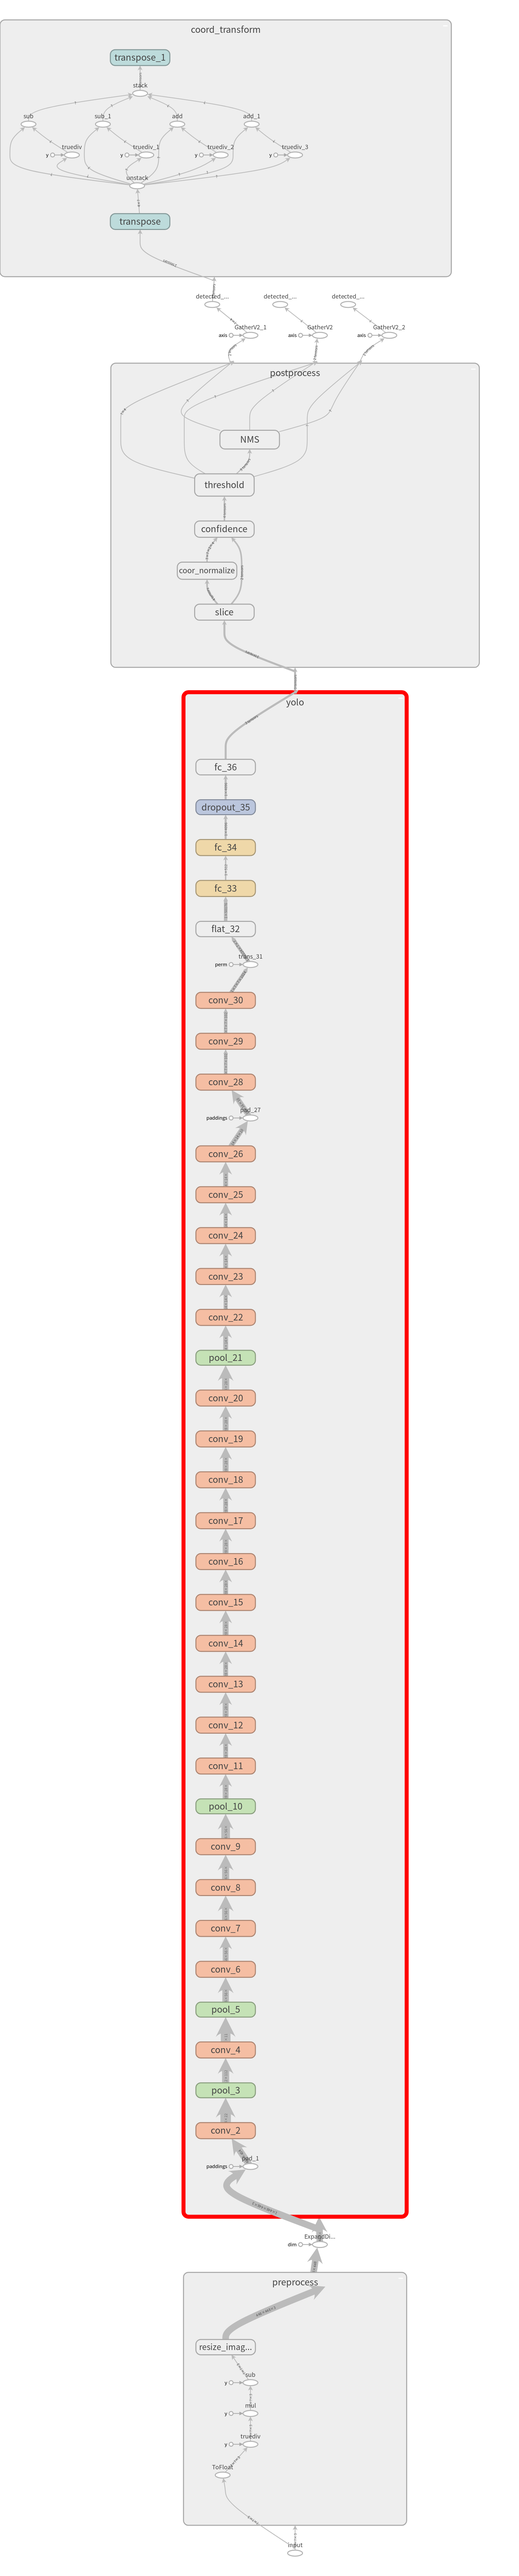
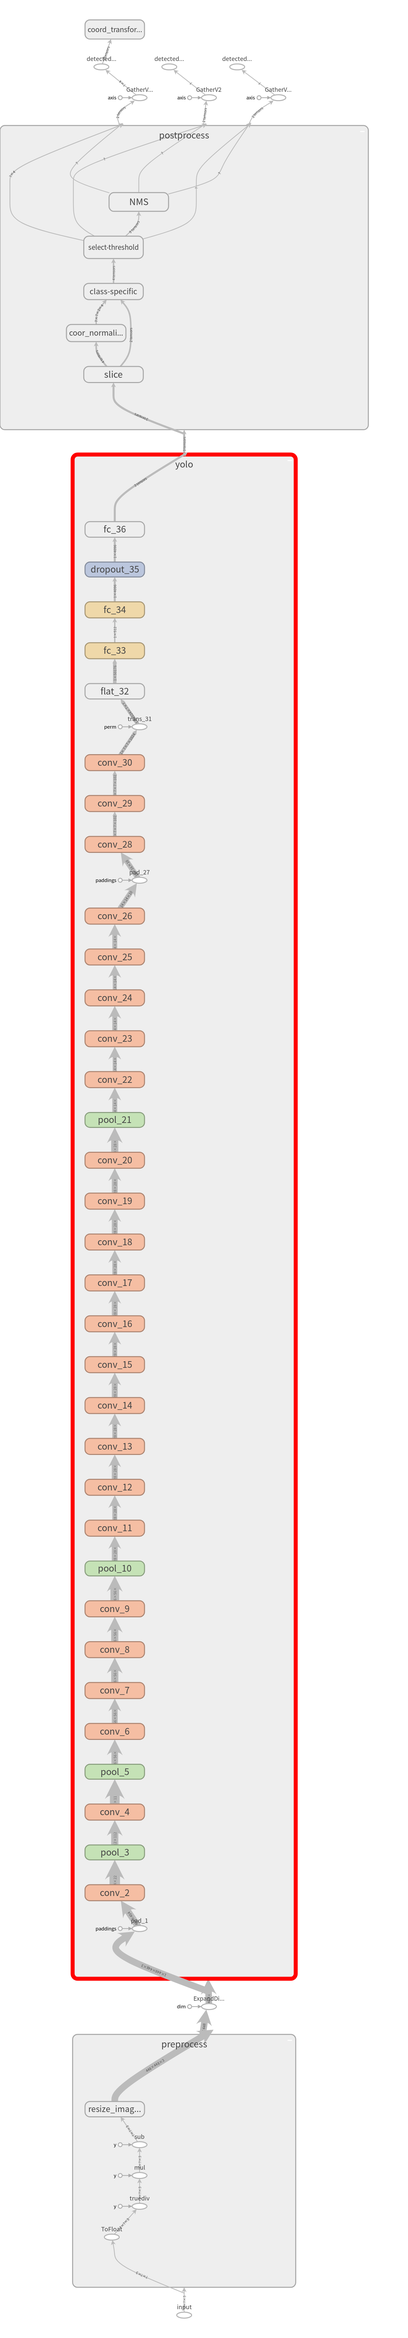
fix_some_error_and_update_graph_for_yolov1

diff --git a/YOLO_V1/YOLOv1-Tensorflow-detect-export/YOLO_V1_Inference.py b/YOLO_V1/YOLOv1-Tensorflow-detect-export/YOLO_V1_Inference.py
@@ -213,11 +213,9 @@ class Yolo(object):
 	def _build_detector(self):
 		with tf.variable_scope("postprocess"):
 			# 原始图片的宽和高
-# 			self.width = tf.placeholder(tf.float32,name='img_w')
-# 			self.height = tf.placeholder(tf.float32,name='img_h')
-			_, h, w, _ = tf.unstack(tf.shape(self.images))
-			height = tf.to_float(h)#input image height of the network 448
-			width = tf.to_float(w)#input image width of the network 448
+			#_, h, w, _ = tf.unstack(tf.shape(self.images))
+			#height = tf.to_float(h)#input image height of the network 448
+			#width = tf.to_float(w)#input image width of the network 448
 			with tf.variable_scope("slice"):
 				# 网络回归[batch,7*7*30]：
 				idx1 = self.S*self.S*self.C
@@ -229,16 +227,17 @@ class Yolo(object):
 				# 3.边界框[:,7*7*(20+2):]  8维 -> (x,y,w,h)
 				boxes = tf.reshape(self.predicts[0,idx2:],[self.S,self.S,self.B,4])
 		
-			with tf.variable_scope("coor_normalize"):
+			with tf.variable_scope("coord_decode"):
 				# x，y预测的是相对 grid cell 左上角的坐标offset,So将x，y转换为相对于图像左上角的坐标
 				#boxes[:, :, :, 0],boxes[:, :, :, 1],the bounding box x and y coordinates to be offsets of a particular grid cell location
 				# w，h的预测是宽度和高度的平方根,So平方乘以图像的宽度和高度,the bounding box width and height by the image width and height
+				#normallize the box coordinates to  0-1 of the whole image
 				boxes = tf.stack([(boxes[:, :, :, 0] + tf.constant(self.x_offset, dtype=tf.float32)) / self.S ,#self.width,
 						  (boxes[:, :, :, 1] + tf.constant(self.y_offset, dtype=tf.float32)) / self.S ,#self.height,
 						  tf.square(boxes[:, :, :, 2]),#self.width,
 						  tf.square(boxes[:, :, :, 3])], axis=3)#self.height], axis=3)
 		
-		        with tf.variable_scope("confidence"):
+			with tf.variable_scope("class-specific"):
 				# 类别置信度分数：[S,S,B,1]*[S,S,1,C]=[S,S,B,类别置信度C]
 				scores = tf.expand_dims(confs, -1) * tf.expand_dims(class_probs, 2)
 		
@@ -247,26 +246,29 @@ class Yolo(object):
 		
 				# 只选择类别置信度最大的值作为box的类别、分数
 				box_classes = tf.argmax(scores, axis=1) # 边界框box的类别
-			        box_class_scores = tf.reduce_max(scores, axis=1) # 边界框box的分数
+				box_class_scores = tf.reduce_max(scores, axis=1) # 边界框box的分数
 		
-		        with tf.variable_scope("threshold"):
+			with tf.variable_scope("select-threshold"):
 				# 利用类别置信度阈值self.threshold，过滤掉类别置信度低的
-			        filter_mask = box_class_scores >= self.threshold
-		        	scores = tf.boolean_mask(box_class_scores, filter_mask)
-		        	boxes = tf.boolean_mask(boxes, filter_mask)
-		        	box_classes = tf.boolean_mask(box_classes, filter_mask)
+				filter_mask = box_class_scores >= self.threshold
+				scores = tf.boolean_mask(box_class_scores, filter_mask)
+				boxes = tf.boolean_mask(boxes, filter_mask)
+				box_classes = tf.boolean_mask(box_classes, filter_mask)
 		
-		        with tf.variable_scope("NMS"):
+			with tf.variable_scope("NMS"):
 				# NMS (不区分不同的类别)
-				# 中心坐标+宽高box (x, y, w, h) -> xmin=x-w/2 -> 左上+右下box (xmin, ymin, xmax, ymax)，因为NMS函数是这种计算方式
-		        	_boxes = tf.stack([boxes[:, 0] - 0.5 * boxes[:, 2], boxes[:, 1] - 0.5 * boxes[:, 3],
-								   boxes[:, 0] + 0.5 * boxes[:, 2], boxes[:, 1] + 0.5 * boxes[:, 3]], axis=1)
-		        	nms_indices = tf.image.non_max_suppression(_boxes, scores,
-										self.max_output_size, self.iou_threshold)
+				# 中心坐标+宽高box (x, y, w, h) -> xmin=x-w/2 -> 左上+右下box (ymin, xmin, ymax, xmax)，因为NMS函数是这种计算方式
+				_boxes = tf.stack([boxes[:, 1] - 0.5 * boxes[:, 2], boxes[:, 0] - 0.5 * boxes[:, 3],
+								       boxes[:, 1] + 0.5 * boxes[:, 2], boxes[:, 0] + 0.5 * boxes[:, 3]], axis=1)
+				#Bounding boxes are supplied as [y1, x1, y2, x2], where (y1, x1) and (y2, x2) are the coordinates of any diagonal pair of box corners 
+				#and the coordinates can be provided as normalized ,ymin, xmin, ymax, xmax
+				nms_indices = tf.image.non_max_suppression(_boxes, scores,
+																self.max_output_size, self.iou_threshold)
 		        	
-		    	self.scores = tf.gather(scores, nms_indices, name="scores")
-		    	self.boxes = tf.gather(boxes, nms_indices,name="boxes")
-		    	self.box_classes = tf.gather(box_classes, nms_indices,name="classes")
+		self.scores = tf.gather(scores, nms_indices, name="scores")
+		self.boxes = tf.gather(boxes, nms_indices,name="boxes")
+		self.box_classes = tf.gather(box_classes, nms_indices,name="classes")
+
 	# print all op names
 	def _print_tensor_name(self, chkpt_fname):
 	    reader = pywrap_tensorflow.NewCheckpointReader(chkpt_fname)

diff --git a/YOLO_V1/YOLOv1-Tensorflow-detect-export/YOLO_V1_export_interface_graph.py b/YOLO_V1/YOLOv1-Tensorflow-detect-export/YOLO_V1_export_interface_graph.py
@@ -171,11 +171,8 @@ class Yolo(object):
 	def _build_detector(self):
 		with tf.variable_scope("postprocess"):
 			# 原始图片的宽和高
-# 			self.width = tf.placeholder(tf.float32,name='img_w')
-# 			self.height = tf.placeholder(tf.float32,name='img_h')
-			_, h, w, _ = tf.unstack(tf.shape(self.images))
-			height = tf.to_float(h)#input image height of the network 448
-			width = tf.to_float(w)#input image width of the network 448
+			#height = tf.to_float(h)#input image height of the network 448
+			#width = tf.to_float(w)#input image width of the network 448
 			with tf.variable_scope("slice"):
 				# 网络回归[batch,7*7*30]：
 				idx1 = self.S*self.S*self.C
@@ -196,34 +193,35 @@ class Yolo(object):
 						  tf.square(boxes[:, :, :, 2]),#self.width,
 						  tf.square(boxes[:, :, :, 3])], axis=3)#self.height], axis=3)
 		
-		        with tf.variable_scope("confidence"):
-				# 类别置信度分数：[S,S,B,1]*[S,S,1,C]=[S,S,B,类别置信度C]
-				scores = tf.expand_dims(confs, -1) * tf.expand_dims(class_probs, 2)
+			with tf.variable_scope("class-specific"):
+			    # 类别置信度分数：[S,S,B,1]*[S,S,1,C]=[S,S,B,类别置信度C]
+			    scores = tf.expand_dims(confs, -1) * tf.expand_dims(class_probs, 2)
 		
-				scores = tf.reshape(scores, [-1, self.C])  # [S*S*B, C]
-				boxes = tf.reshape(boxes, [-1, 4])  # [S*S*B, 4]
+			    scores = tf.reshape(scores, [-1, self.C])  # [S*S*B, C]
+			    boxes = tf.reshape(boxes, [-1, 4])  # [S*S*B, 4]
 		
 				# 只选择类别置信度最大的值作为box的类别、分数
-				box_classes = tf.argmax(scores, axis=1) # 边界框box的类别
-			        box_class_scores = tf.reduce_max(scores, axis=1) # 边界框box的分数
+			    box_classes = tf.argmax(scores, axis=1) # 边界框box的类别
+			    box_class_scores = tf.reduce_max(scores, axis=1) # 边界框box的分数
 		
-		        with tf.variable_scope("threshold"):
+			with tf.variable_scope("select-threshold"):
 				# 利用类别置信度阈值self.threshold，过滤掉类别置信度低的
-			        filter_mask = box_class_scores >= self.threshold
-		        	scores = tf.boolean_mask(box_class_scores, filter_mask)
-		        	boxes = tf.boolean_mask(boxes, filter_mask)
-		        	box_classes = tf.boolean_mask(box_classes, filter_mask)
+			    filter_mask = box_class_scores >= self.threshold
+			    scores = tf.boolean_mask(box_class_scores, filter_mask)
+			    boxes = tf.boolean_mask(boxes, filter_mask)
+			    box_classes = tf.boolean_mask(box_classes, filter_mask)
 		
-		        with tf.variable_scope("NMS"):
+			with tf.variable_scope("NMS"):
 				# NMS (不区分不同的类别)
-				# 中心坐标+宽高box (x, y, w, h) -> xmin=x-w/2 -> 左上+右下box (xmin, ymin, xmax, ymax)，因为NMS函数是这种计算方式
-		        	_boxes = tf.stack([boxes[:, 0] - 0.5 * boxes[:, 2], boxes[:, 1] - 0.5 * boxes[:, 3],
-								   boxes[:, 0] + 0.5 * boxes[:, 2], boxes[:, 1] + 0.5 * boxes[:, 3]], axis=1)
-		        	nms_indices = tf.image.non_max_suppression(_boxes, scores,
-										self.max_output_size, self.iou_threshold)
+				# 中心坐标+宽高box (x, y, w, h) -> xmin=x-w/2 -> 左上+右下box (ymin, xmin, ymax, xmax)，因为NMS函数是这种计算方式
+				_boxes = tf.stack([boxes[:, 1] - 0.5 * boxes[:, 2], boxes[:, 0] - 0.5 * boxes[:, 3],
+								       boxes[:, 1] + 0.5 * boxes[:, 2], boxes[:, 0] + 0.5 * boxes[:, 3]], axis=1)
+				#Bounding boxes are supplied as [y1, x1, y2, x2], where (y1, x1) and (y2, x2) are the coordinates of any diagonal pair of box corners 
+				#and the coordinates can be provided as normalized ,ymin, xmin, ymax, xmax
+				nms_indices = tf.image.non_max_suppression(_boxes, scores,
+																self.max_output_size, self.iou_threshold)
 		        	
 		self.scores = tf.identity(tf.gather(scores, nms_indices), name="detected_scores")
-		print(self.scores)
 		self.boxes = tf.identity(tf.gather(boxes, nms_indices),name="detected_boxes")
 		self.box_classes = tf.identity(tf.gather(box_classes, nms_indices),name="detected_classes")
 	    

diff --git a/YOLO_V1/YOLOv1-Tensorflow-detect-export/object_detect.py b/YOLO_V1/YOLOv1-Tensorflow-detect-export/object_detect.py
@@ -145,7 +145,7 @@ class ObjectDetectModel(object):
 
   def load_category(self, label_file):
         label_map = label_map_util.load_labelmap(label_file)
-        categories = label_map_util.convert_label_map_to_categories(label_map, max_num_classes=2, use_display_name=True)
+        categories = label_map_util.convert_label_map_to_categories(label_map, max_num_classes=20, use_display_name=True)
         category_index = label_map_util.create_category_index(categories)
         return category_index
         
@@ -182,7 +182,7 @@ class ObjectDetectModel(object):
         print('boxes:',self.boxes)
         print('scores:',self.scores)
         print('classes:',self.classes)
-        print('center_coordinates:',self.get_center_coordinates(self.boxes))
+        #print('center_coordinates:',self.get_center_coordinates(self.boxes))
     
     return self.boxes, self.scores, self.classes, self.category_index
 

diff --git a/YOLO_V1/YOLOv1-Tensorflow-detect-export/README.md b/YOLO_V1/YOLOv1-Tensorflow-detect-export/README.md
@@ -1,0 +1,15 @@
+# YOLOv1-Tensorflow<br><br>
+## 运行环境：<br>
+Python3 + Tensorflow1.5 + OpenCV-python3.3.1 + Numpy1.13<br>
+windows和ubuntu环境都可以<br><br>
+## 准备工作：<br>
+请在[yolo1检测模型](https://drive.google.com/file/d/0B5aC8pI-akZUNVFZMmhmcVRpbTA/view?usp=sharing)下载训练好的模型YOLO_small.ckpt，并放到同一文件夹下<br><br>
+## 文件说明：<br>
+1、yolo1_tf.py：程序文件<br>
+2、boxes.txt：检测结果的类别和边界框坐标<br><br>
+### 运行yolo1_tf.py即可得到效果图：<br>
+1、car.PNG：输入的待检测图片<br><br>
+![image](car.PNG)<br>
+2、detected_image.jpg：检测结果可视化<br><br>
+![image](detected.jpg)<br>
+
